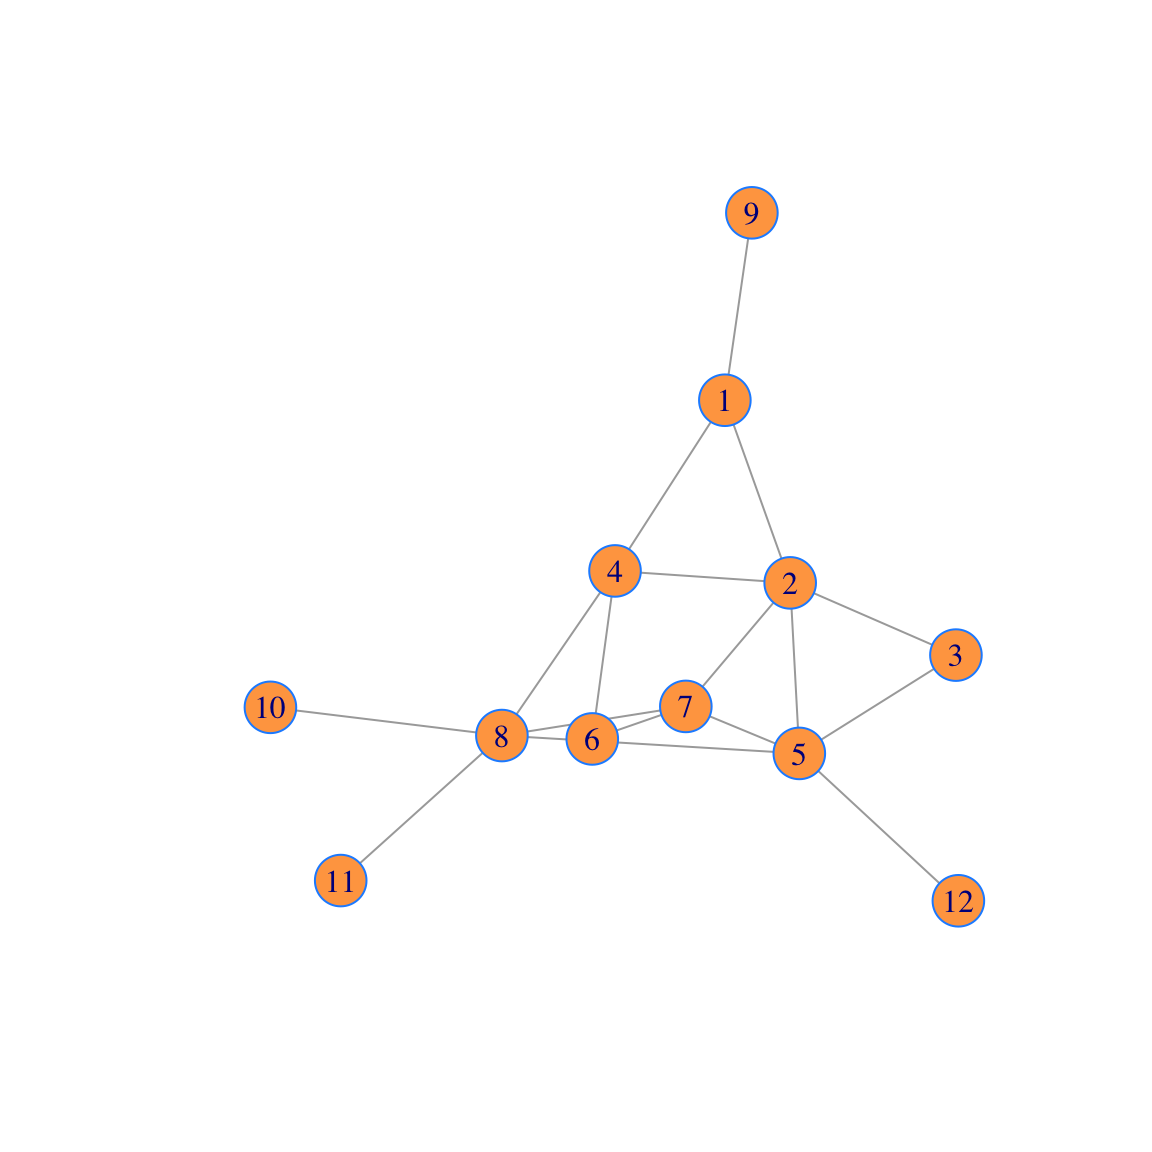
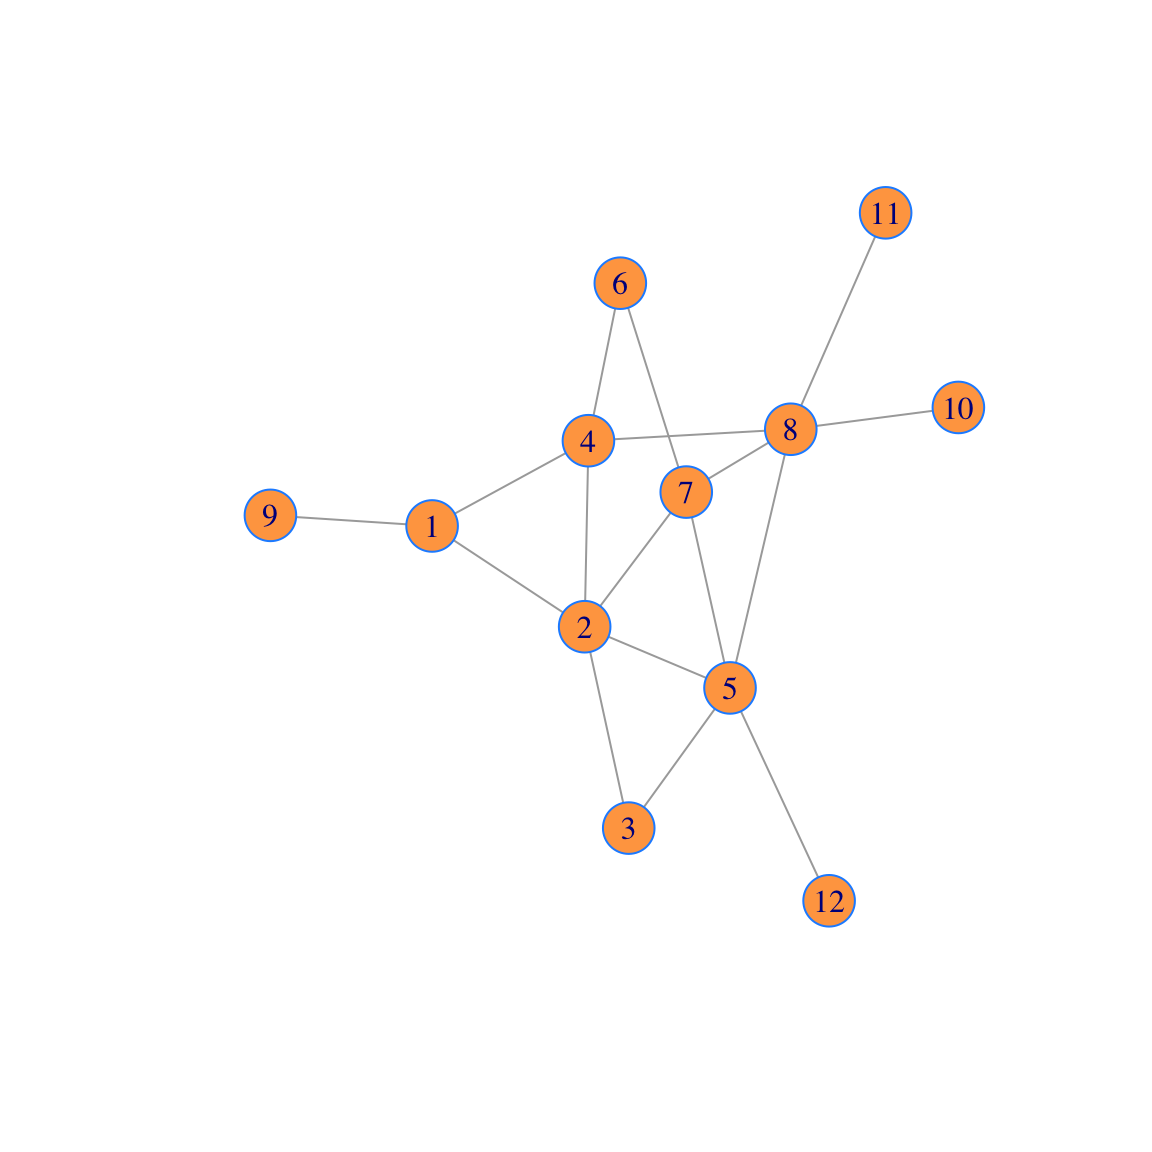
adding Russian network image

diff --git a/docs/network-centralities.html b/docs/network-centralities.html
@@ -826,7 +826,7 @@ The <span class="math inline">\(n \times n\)</span> identity matrix in <code>R</
 <span id="cb98-81"><a href="network-centralities.html#cb98-81"></a><span class="kw">V</span>(g)<span class="op">$</span>label =<span class="st"> </span>RusCity</span>
 <span id="cb98-82"><a href="network-centralities.html#cb98-82"></a><span class="co"># Plot network</span></span>
 <span id="cb98-83"><a href="network-centralities.html#cb98-83"></a><span class="kw">plot</span>(g)</span></code></pre></div>
-<p><img src="math236_handbook_files/figure-html/unnamed-chunk-51-1.png" width="75%" style="display: block; margin: auto;" /></p>
+<p><img src="math236_handbook_files/figure-html/networkRussia-1.png" width="75%" style="display: block; margin: auto;" /></p>
 <div id="find-the-degree-centrality-values." class="section level3">
 <h3><span class="header-section-number">17.4.1</span> Find the degree centrality values.</h3>
 <p>Create a vector containing the normalized Degree Centralities. See Section <a href="network-centralities.html#degree-centrality">17.2</a> for help.</p>
